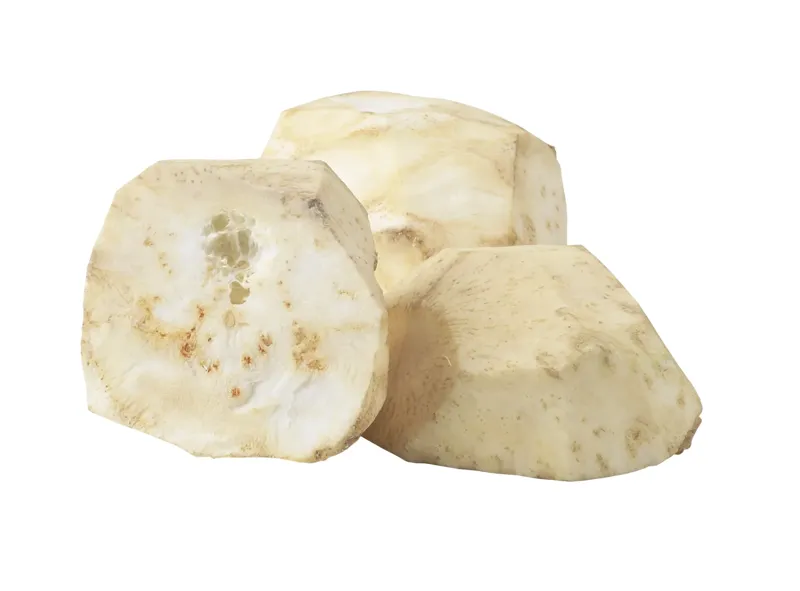
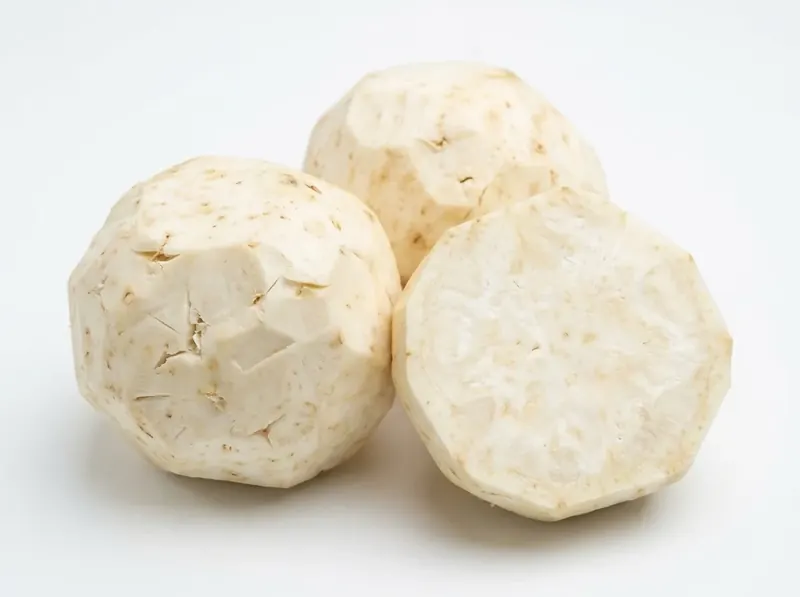
Photos: peeled celeriac product tile
Claude-Session: https://claude.ai/code/session_01FXJ2rbHnbSjxptSmxWtMMX

diff --git a/zamow/sw.js b/zamow/sw.js
@@ -1,5 +1,5 @@
 // Offline cache for the ordering app. Bump VERSION when files change.
-const VERSION = "sylwia-zamow-v25";
+const VERSION = "sylwia-zamow-v26";
 const ASSETS = ["./", "index.html", "app.css", "app.js", "products.js", "manifest.webmanifest",
   "icons/icon-192.png", "../img/favicon.svg",
   "../fonts/jost-latin.woff2", "../fonts/jost-latin-ext.woff2"];
